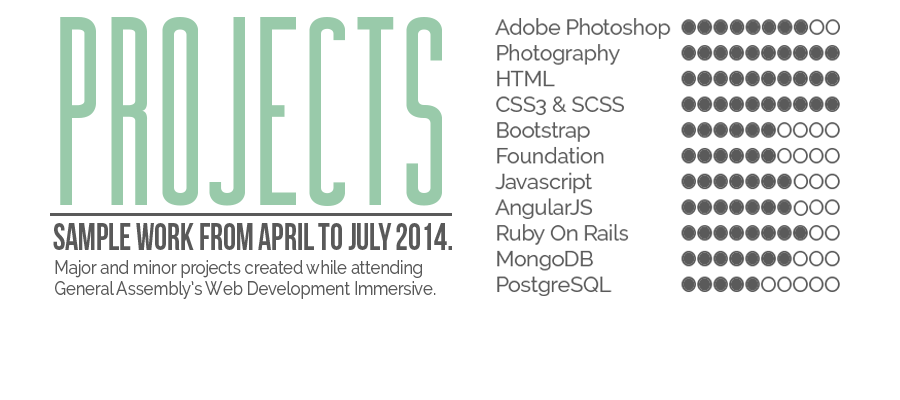
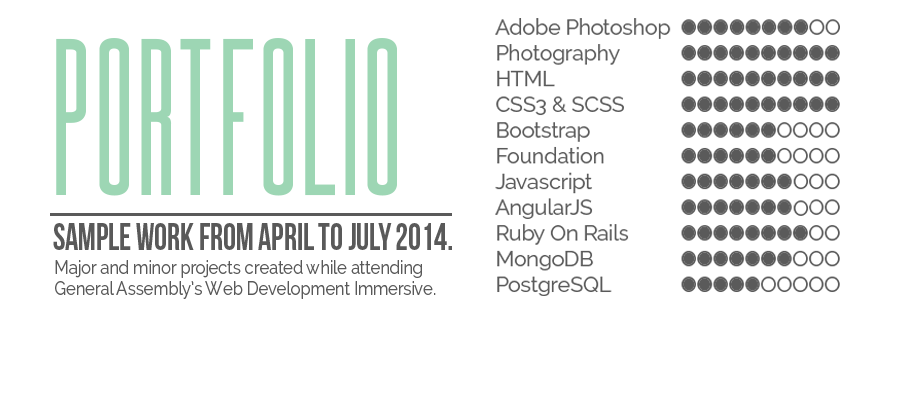
project pictures added

Changed region(s): [[0.0622, 0.03, 0.4978, 0.51]]

diff --git a/css/style.css b/css/style.css
@@ -14,7 +14,7 @@ body {
 	padding: 0px;
 	font-family: 
 	'Raleway', sans-serif;
-	background-color: #DCDCDC;
+	background-color: #9e9e9e;
 }
 /*
 div {
@@ -193,13 +193,13 @@ div {
 	margin-left: -20px;
 }
 #thirdbox{
-	background-color: #DCDCDC;
-	height: 1400px;
+	background-color: #FFFFFF;
+	height: 1600px;
 }
 
 #thirdboxtitle{
 	margin: -20px auto 0 auto;
-	border: 1px solid #000000;
+	
 	width: 800px;
 	height: 300px;
 	background-image: url('../images/projects.png');
@@ -208,7 +208,7 @@ div {
 }
 
 .projectcontainer{
-	width: 810px;
+	width: 1010px;
 	margin: 0 auto;	
 }
 .projectcontainer div{
@@ -216,13 +216,57 @@ div {
 
 }
 .projectbox{
-	width: 400px;
-	height: 300px;
-	border: 1px solid #000000;
+	width: 500px;
+	height: 380px;
+	border: 1px solid #FFFFFF;
+	background-color: #9e9e9e;
+}
+
+#proj1{
+	background-image: url('../images/proj1.png');
+	background-repeat: no-repeat;
+	background-position: center center;
+	background-size: contain;
+
+}
+#proj2{
+
+	background-image: url('../images/proj2.png');
+	background-repeat: no-repeat;
+	background-position: center center;
+	background-size: contain;
+
+}
+#proj3{
+	background-image: url('../images/proj5.png');
+	background-repeat: no-repeat;
+	background-position: center center;
+	background-size: contain;
+
+}
+#proj4{
+	background-image: url('../images/proj6.png');
+	background-repeat: no-repeat;
+	background-position: center center;
+	background-size: contain;
+
 }
 
 
+#proj5{
+	background-image: url('../images/proj3.png');
+	background-repeat: no-repeat;
+	background-position: center center;
+	background-size: contain;
 
+}
+#proj6{
+	background-image: url('../images/proj4.png');
+	background-repeat: no-repeat;
+	background-position: center center;
+	background-size: contain;
+
+}
 
 #fourthbox{
 	-moz-box-shadow:    inset 0 0 40px #000000;
